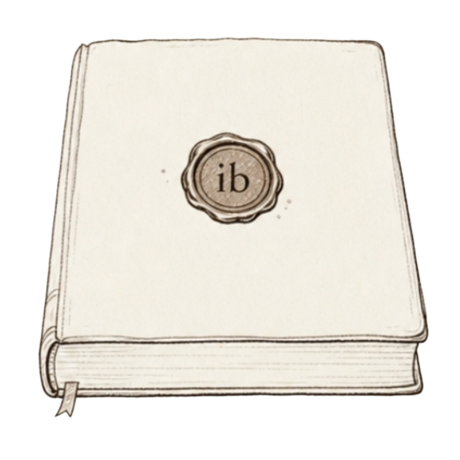
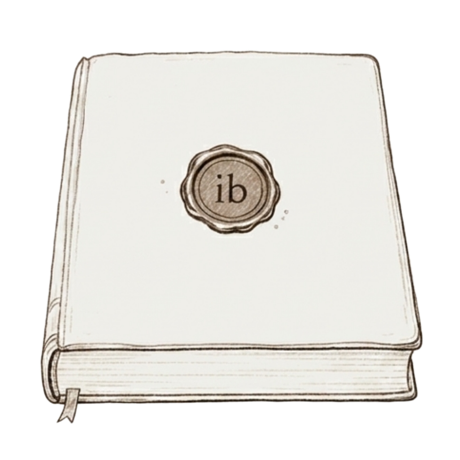
feat: add cloudbase-anonymous-token function and update virtual-pay to use dynamic config

Changed region(s): [[0.0609, 0.0609, 0.9435, 0.913], [0.3652, 0.2739, 0.6391, 0.5174], [0.3348, 0.3652, 0.3652, 0.3957]]

diff --git a/apps/inner-book-server/scf/cloudbase-anonymous-token/index.js b/apps/inner-book-server/scf/cloudbase-anonymous-token/index.js
@@ -1,0 +1,96 @@
+const cloudbase = require('@cloudbase/js-sdk');
+
+const DEFAULT_ENV_ID = 'inner-book-0gdweqyu8ab70e46';
+const DEFAULT_REGION = 'ap-shanghai';
+
+let cachedToken = '';
+let cachedExpiresAt = 0;
+let cachedUserId = '';
+
+function getEnvId() {
+  return process.env.CLOUDBASE_ENV_ID || "inner-book-0gdweqyu8ab70e46";
+}
+
+function getRegion() {
+  return process.env.CLOUDBASE_REGION || "ap-shanghai";
+}
+
+function getRemainingSeconds() {
+  return Math.max(0, Math.floor((cachedExpiresAt - Date.now()) / 1000));
+}
+
+function getTokenExpiresAt(accessToken, fallbackExpiresIn) {
+  const expiresIn = Number(fallbackExpiresIn) || 7200;
+  try {
+    const payloadBase64 = String(accessToken).split('.')[1];
+    if (!payloadBase64) return Date.now() + expiresIn * 1000;
+
+    const normalized = payloadBase64.replace(/-/g, '+').replace(/_/g, '/');
+    const payload = JSON.parse(Buffer.from(normalized, 'base64').toString('utf8'));
+    if (payload?.exp) {
+      return payload.exp * 1000;
+    }
+  } catch (error) {
+    console.warn('[cloudbase-anonymous-token] parse token exp failed:', error);
+  }
+
+  return Date.now() + expiresIn * 1000;
+}
+
+async function signInAnonymously() {
+  const app = cloudbase.init({
+    env: getEnvId(),
+    region: getRegion(),
+  });
+  const auth = app.auth({ persistence: 'none' });
+  const result = await auth.signInAnonymously({});
+  if (result?.error) {
+    throw new Error(result.error.message || 'CloudBase 匿名登录失败');
+  }
+
+  const session = result?.data?.session || {};
+  const accessToken = session.access_token || (await auth.getAccessToken())?.accessToken;
+  if (!accessToken) {
+    throw new Error('CloudBase 匿名登录未返回 access_token');
+  }
+
+  cachedToken = accessToken;
+  cachedExpiresAt = getTokenExpiresAt(accessToken, session.expires_in);
+  cachedUserId = result?.data?.user?.id || session?.user?.id || '';
+
+  return {
+    access_token: cachedToken,
+    expires_in: getRemainingSeconds(),
+    token_type: session.token_type || 'Bearer',
+    user_id: cachedUserId,
+  };
+}
+
+exports.main = async (event = {}) => {
+  try {
+    const forceRefresh = event.force_refresh === true;
+    if (!forceRefresh && cachedToken && Date.now() < cachedExpiresAt - 5 * 60 * 1000) {
+      return {
+        code: 0,
+        access_token: cachedToken,
+        expires_in: getRemainingSeconds(),
+        token_type: 'Bearer',
+        user_id: cachedUserId,
+        cached: true,
+      };
+    }
+
+    const token = await signInAnonymously();
+    return {
+      code: 0,
+      ...token,
+      cached: false,
+    };
+  } catch (error) {
+    console.error('[cloudbase-anonymous-token] failed:', error);
+    return {
+      code: -1,
+      message: error.message || '获取 CloudBase 匿名 access_token 失败',
+    };
+  }
+};

diff --git a/packages/miniprogram/src/adapters/mpRequest.js b/packages/miniprogram/src/adapters/mpRequest.js
@@ -2,8 +2,7 @@ import Taro from '@tarojs/taro';
 import { getOpenid } from '../utils/openidStore';
 
 const CHAT_SERVICE_NAME = 'inner-book-server';
-const ACCESS_TOKEN_FUNCTION_NAME = 'wx-virtual-pay';
-const ACCESS_TOKEN_ACTION = 'get_access_token';
+const CLOUDBASE_TOKEN_FUNCTION_NAME = 'cloudbase-anonymous-token';
 const CALL_CONTAINER_TIMEOUT = 15000;
 const ACCESS_TOKEN_REFRESH_BUFFER_MS = 5 * 60 * 1000;
 
@@ -76,11 +75,14 @@ function isCallContainerTimeoutError(err) {
   return err?.errCode === 102002 || /102002|请求超时|timeout/i.test(message);
 }
 
-function getAccessTokenResult(response) {
+function getCloudbaseTokenResult(response) {
   const result = response?.result || response || {};
+  if (result.code && result.code !== 0) {
+    throw new Error(result.message || result.msg || '获取 CloudBase access_token 失败');
+  }
   const accessToken = result.access_token || result.accessToken || '';
   if (!accessToken) {
-    const message = result.message || result.msg || result.errmsg || '获取 access_token 失败';
+    const message = result.message || result.msg || result.errmsg || '获取 CloudBase access_token 失败';
     throw new Error(message);
   }
   return {
@@ -89,28 +91,37 @@ function getAccessTokenResult(response) {
   };
 }
 
-async function getWxAccessToken(cloudApp) {
+async function getCloudbaseAccessToken(cloudApp) {
   if (cachedAccessToken && Date.now() < cachedAccessTokenExpiresAt - ACCESS_TOKEN_REFRESH_BUFFER_MS) {
     return cachedAccessToken;
   }
 
   if (!cloudApp || !cloudApp.callFunction) {
-    throw new Error('云函数未初始化，无法获取 access_token');
+    throw new Error('云函数未初始化，无法获取 CloudBase access_token');
   }
 
   const response = await cloudApp.callFunction({
-    name: ACCESS_TOKEN_FUNCTION_NAME,
-    data: { action: ACCESS_TOKEN_ACTION },
+    name: CLOUDBASE_TOKEN_FUNCTION_NAME,
+    data: {},
   });
-  const { accessToken, expiresIn } = getAccessTokenResult(response);
+  const { accessToken, expiresIn } = getCloudbaseTokenResult(response);
   cachedAccessToken = accessToken;
   cachedAccessTokenExpiresAt = Date.now() + expiresIn * 1000;
   return accessToken;
 }
 
+function withCloudbaseAccessTokenHeaders(headers, accessToken) {
+  return {
+    ...(headers || {}),
+    'Authorization': `Bearer ${accessToken}`,
+    'X-WX-CLOUDBASE-ACCESS-TOKEN': accessToken,
+    'X-WX-Access-Token': accessToken,
+  };
+}
+
 /**
  * 小程序端 Request 适配器
- * - chat 接口：使用 wx.cloud.callContainer 调用云托管
+ * - chat 接口：优先使用 wx.cloud.callContainer，超时时兜底使用 wx.request
  * - 其他：使用 wx.request
  */
 export const mpRequestAdapter = {
@@ -149,9 +160,10 @@ export const mpRequestAdapter = {
     const path = getPathFromUrl(url);
 
     const openid = getOpenid();
+    const accessToken = await getCloudbaseAccessToken(cloudApp);
     const header = {
       'X-WX-SERVICE': CHAT_SERVICE_NAME,
-      ...(options.headers || {}),
+      ...withCloudbaseAccessTokenHeaders(options.headers, accessToken),
     };
     if (openid) header['X-WX-Openid'] = openid;
 
@@ -193,12 +205,8 @@ export const mpRequestAdapter = {
   },
 
   async _requestChatViaWxRequestFallback(url, options = {}) {
-    const accessToken = await getWxAccessToken(this._cloudApp);
-    const headers = {
-      ...(options.headers || {}),
-      'X-WX-CLOUDBASE-ACCESS-TOKEN': accessToken,
-      'X-WX-Access-Token': accessToken,
-    };
+    const accessToken = await getCloudbaseAccessToken(this._cloudApp);
+    const headers = withCloudbaseAccessTokenHeaders(options.headers, accessToken);
 
     return this._wxRequest(url, {
       ...options,

diff --git a/packages/core/src/api/chat.js b/packages/core/src/api/chat.js
@@ -30,18 +30,26 @@ function getProxyServerUrl() {
   return env('SERVER_URL') || 'http://localhost:3001';
 }
 
+function getProxyAuthHeaders() {
+  const platform = getAdapter('platform');
+  if (platform?.getPlatformName?.() === 'miniprogram') {
+    return {};
+  }
+
+  const token = getCurrentUserToken();
+  return token ? { 'Authorization': `Bearer ${token}` } : {};
+}
+
 /**
  * 聊天预热：请求聊天服务健康检查接口
  */
 export function chatWarmup() {
-  const token = getCurrentUserToken();
-
   return request(`${getProxyServerUrl()}/chat/health`, {
     method: 'GET',
     mode: 'cors',
     headers: {
       'Content-Type': 'application/json',
-      'Authorization': `Bearer ${token}`,
+      ...getProxyAuthHeaders(),
     },
     credentials: 'include',
   }).then(() => {});
@@ -65,13 +73,12 @@ export function typewriterEffect(text, onUpdate, speed = 30) {
 }
 
 async function sendMessageViaProxy(messages, onStream = null, mode) {
-  const token = getCurrentUserToken();
   const response = await request(`${getProxyServerUrl()}/chat`, {
     method: 'POST',
     mode: 'cors',
     headers: {
       'Content-Type': 'application/json',
-      'Authorization': `Bearer ${token}`,
+      ...getProxyAuthHeaders(),
     },
     credentials: 'include',
     body: JSON.stringify({

diff --git a/apps/inner-book-server/scf/virtual-pay/code2session.js b/apps/inner-book-server/scf/virtual-pay/code2session.js
@@ -1,11 +1,20 @@
+function getRuntimeConfig() {
+  if (globalThis.CONFIG) {
+    return globalThis.CONFIG;
+  }
+  const { getConfig } = require("./config");
+  return getConfig();
+}
+
 async function getSession(code) {
   const { requestJson } = require("./request");
+  const config = getRuntimeConfig();
 
   const API_ROOT = "https://api.weixin.qq.com";
   const url =
     `${API_ROOT}/sns/jscode2session` +
-    `?appid=${encodeURIComponent('wxd4168d20a8ab16bf')}` +
-    `&secret=${encodeURIComponent('3ac79768a3483ce510886697a710f0ad')}` +
+    `?appid=${encodeURIComponent(config.appId)}` +
+    `&secret=${encodeURIComponent(config.appSecret)}` +
     `&js_code=${encodeURIComponent(code)}` +
     `&grant_type=authorization_code`;
 

diff --git a/apps/inner-book-server/scf/virtual-pay/config.js b/apps/inner-book-server/scf/virtual-pay/config.js
@@ -1,5 +1,5 @@
 const COMMON_VIRTUAL_PAY_CONFIG = {
-  appId: "wxd4168d20a8ab16bf",
+  appId: process.env.WX_APPID || "wxd4168d20a8ab16bf",
   appSecret: process.env.WX_APPSECRET || "",
   offerId: "1450513532",
   appKey: process.env.WX_VP_APP_KEY || "",

diff --git a/apps/inner-book-server/scf/cloudbase-anonymous-token/README.md b/apps/inner-book-server/scf/cloudbase-anonymous-token/README.md
@@ -1,0 +1,10 @@
+# cloudbase-anonymous-token
+
+临时获取 CloudBase 匿名登录态 `access_token` 的云函数。
+
+小程序端在云托管 `callContainer` 超时后，会调用本云函数获取匿名 token，再通过 `wx.request` 访问云托管。
+
+可选环境变量：
+
+- `CLOUDBASE_ENV_ID`：CloudBase 环境 ID，默认 `inner-book-0gdweqyu8ab70e46`
+- `CLOUDBASE_REGION`：CloudBase 地域，默认 `ap-shanghai`